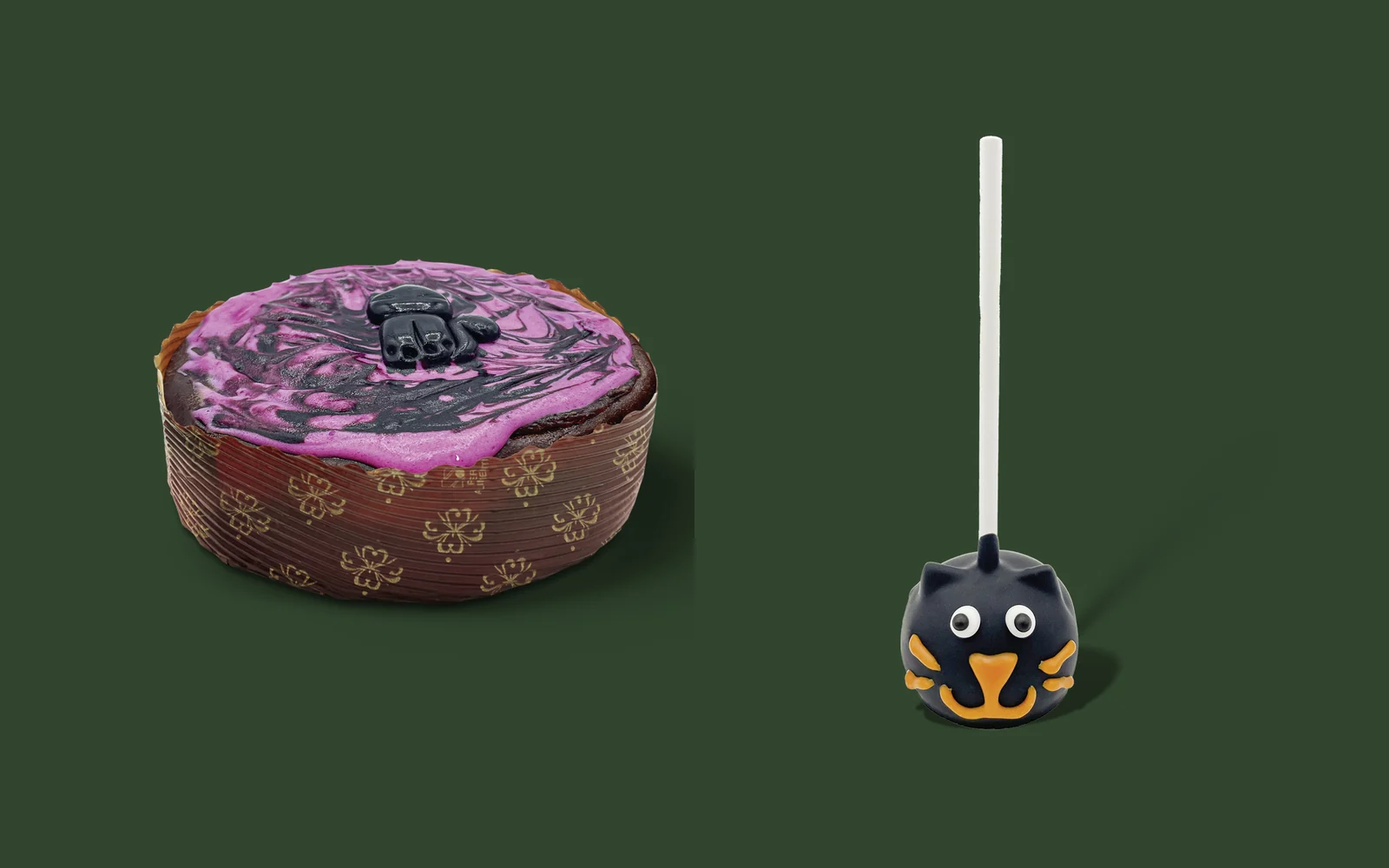
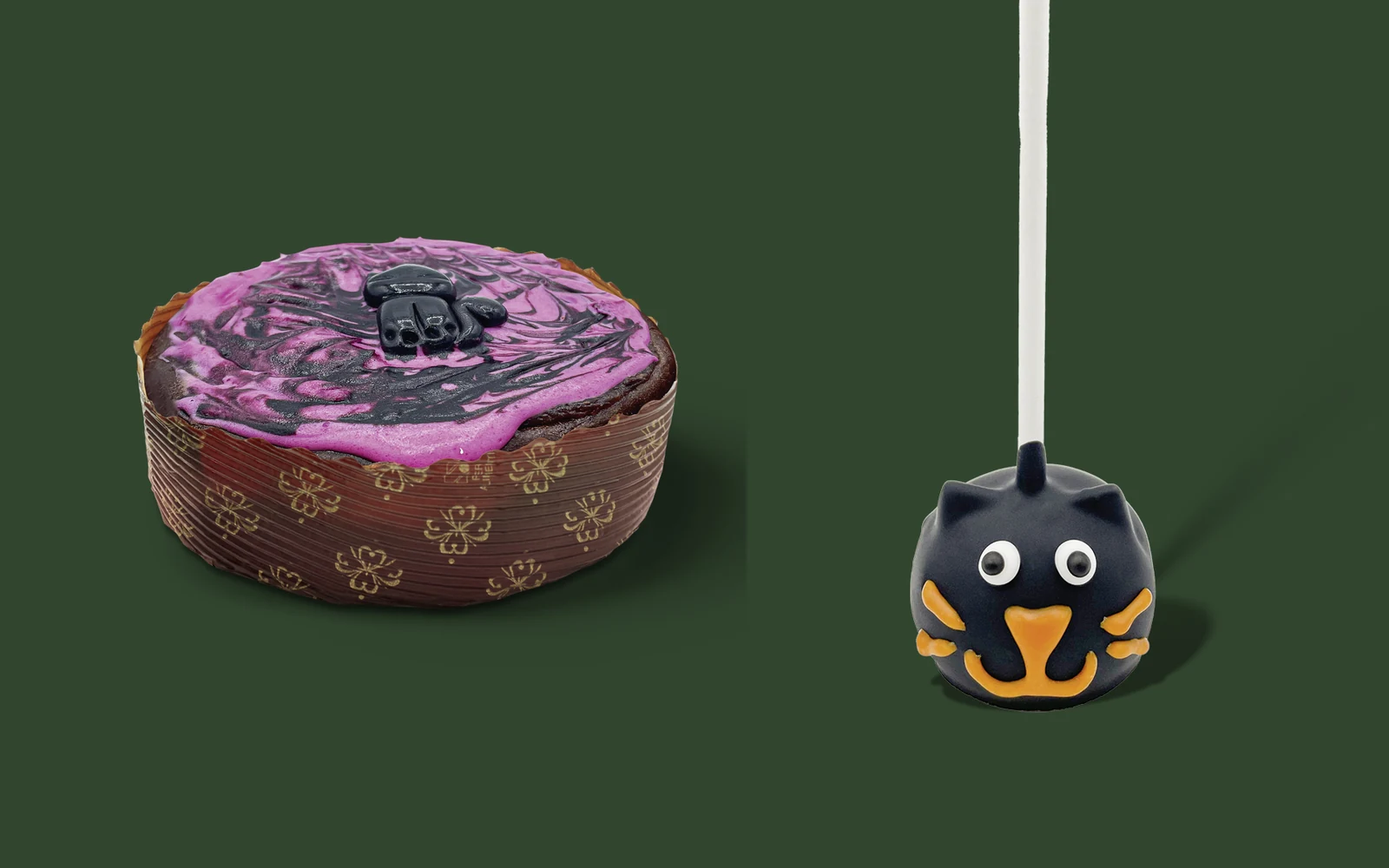
content(links,images): deepen internal linking and redo featured images for Halloween, Vanilla Latte, Stanley and Outlet
Internal linking
- 25 new inbound links from 21 existing pages (9-12 pages now link to each
  of the four posts, in line with earlier batches)
- cross-links between the four posts where they share a topic
  (Halloween <-> Stanley, Halloween <-> Outlet, Halloween -> Vanilla Latte)
- extra outbound links in the Stanley and Vanilla Latte posts

Featured images (text-free, same style as the rest of the blog)
- outlet: photo of Designer Outlet Soltau whose pylon shows the Starbucks
  sign (Hajotthu, CC BY 3.0, credit rendered on the page); the map graphic
  moves into the article as an inline figure
- vanilla-latte: official hot Vanilla Latte + Iced Caffe Latte on white
- halloween: recomposed, cake pop enlarged
- build_post.py renders markdown image lines as <figure class="inline-img">;
  add-image-credits.py knows CC BY 3.0

Changed region(s): [[0.0938, 0.248, 0.5312, 0.713], [0.625, 0.0, 0.875, 0.837]]

diff --git a/blog/starbucks-outlet.html b/blog/starbucks-outlet.html
@@ -155,7 +155,7 @@
           "name": "Gibt es ein Starbucks Outlet mit günstigeren Bechern?",
           "acceptedAnswer": {
             "@type": "Answer",
-            "text": "Nein, einen Fabrikverkauf oder ein eigenes Outlet für Becher betreibt Starbucks in Deutschland nicht. Die Filialen in Outlet-Centern führen das normale Sortiment zum normalen Preis. Limitierte Becher findest du über den Ratgeber Starbucks Becher aktuell."
+            "text": "Nein, einen Fabrikverkauf oder ein eigenes Outlet für Becher betreibt Starbucks in Deutschland nicht. Die Filialen in Outlet-Centern führen das normale Sortiment. Hinweise auf niedrigere Preise haben wir nicht gefunden. Limitierte Becher findest du über den Ratgeber Starbucks Becher aktuell."
           }
         },
         {
@@ -303,10 +303,10 @@
       <div class="article-heading">
         <span class="category-tag">Standorte &amp; Filialen</span>
         <h1 id="article-title">Starbucks im Outlet: Alle 10 Filialen in deutschen Outlet-Centern</h1>
-        <div class="article-meta"><span>7. Oktober 2026</span> • <span>10 Min. Lesezeit</span> • <span>StarbucksPreise Redaktion</span></div>
+        <div class="article-meta"><span>7. Oktober 2026</span> • <span>11 Min. Lesezeit</span> • <span>StarbucksPreise Redaktion</span></div>
       </div>
       <div class="featured-img">
-        <img src="/img/blog/starbucks-outlet-hero.webp" alt="Deutschlandkarte mit den zehn Outlet-Centern, in denen es eine Starbucks-Filiale gibt" loading="eager" fetchpriority="high" decoding="async" width="1600" height="1000">
+        <img src="/img/blog/starbucks-outlet-hero.webp" alt="Ladenstraße im Designer Outlet Soltau mit Werbepylon, auf dem Starbucks Coffee neben Nike und Esprit steht (Aufnahme von 2014)" loading="eager" fetchpriority="high" decoding="async" width="1600" height="1000"><p class="img-credit">Foto: Hajotthu, <a href="https://creativecommons.org/licenses/by/3.0/deed.de" rel="noopener">CC BY 3.0</a>, via <a href="https://commons.wikimedia.org/wiki/File:Outlet-Center_Soltau01.JPG" rel="noopener">Wikimedia Commons</a></p>
       </div>
     </header>
 
@@ -342,13 +342,14 @@
 
         <section class="article-section" aria-labelledby="gibt-es-ein-starbucks-outlet-in-deutschl">
           <h2 id="gibt-es-ein-starbucks-outlet-in-deutschl">1. Gibt es ein Starbucks Outlet in Deutschland?</h2>
-<p>Nein, einen Fabrikverkauf von Starbucks gibt es in Deutschland nicht. Starbucks betreibt hier weder ein eigenes Outlet für Merchandise noch einen Lagerverkauf für Kaffee. Die deutschen Coffee Houses führt AmRest, und Becher gibt es dort zum normalen Preis.</p>
+<p>Nein, einen Fabrikverkauf von Starbucks gibt es in Deutschland nicht. Starbucks betreibt hier weder ein eigenes Outlet für Merchandise noch einen Lagerverkauf für Kaffee. Die deutschen Coffee Houses führt AmRest. Becher und Tassen verkauft Starbucks hier nur über die Filialen, wie der Ratgeber <a href="/blog/starbucks-becher">Starbucks Becher</a> zeigt.</p>
 <p>Was es gibt, sind Coffee Houses in Outlet-Centern. Das Sortiment ist dasselbe wie in der Innenstadt: Getränke, Gebäck und das Kernsortiment an Bechern. Hinweise auf Outlet-Rabatte bei Starbucks haben wir nicht gefunden. Die Preise legt jede Filiale selbst fest, und Starbucks veröffentlicht sie nicht einheitlich.</p>
 <p>Wer sparen will, hat andere Hebel: die App, Starbucks Rewards und Aktionen im Supermarkt. Die sammelt der Ratgeber <a href="/blog/starbucks-angebote">Starbucks Angebote</a>. Reguläre Preise stehen in der <a href="/blog/starbucks-preise">Starbucks Preisliste</a>.</p>
         </section>
         <section class="article-section" aria-labelledby="in-welchen-outlet-centern-gibt-es-einen">
           <h2 id="in-welchen-outlet-centern-gibt-es-einen">2. In welchen Outlet-Centern gibt es einen Starbucks?</h2>
 <p>In zehn deutschen Outlet-Centern gibt es am 7. Oktober 2026 einen Starbucks. Drei liegen in Niedersachsen, zwei in Rheinland-Pfalz, je eines in Baden-Württemberg, Schleswig-Holstein, Brandenburg, Sachsen-Anhalt und Nordrhein-Westfalen.</p>
+<figure class="inline-img"><img src="/img/blog/starbucks-outlet-karte.webp" alt="Deutschlandkarte mit den zehn Outlet-Centern, in denen es eine Starbucks-Filiale gibt" width="1200" height="750" loading="lazy" decoding="async"><figcaption>Die zehn Outlet-Center mit Starbucks auf einen Blick (Stand 7. Oktober 2026). Grafik: StarbucksPreise.</figcaption></figure>
 <div class="table-wrap" tabindex="0" role="region" aria-labelledby="in-welchen-outlet-centern-gibt-es-einen">
 <table>
 <thead>
@@ -538,7 +539,7 @@
 </table>
 </div>
 <p>Quelle: Store Locator auf starbucks.de, Zeiten für den 7. bis 13. Oktober 2026.</p>
-<p>An verkaufsoffenen Sonntagen öffnen Outlet-Center ausnahmsweise. Ob der Starbucks dann mitmacht, zeigt der Store Locator für den jeweiligen Tag. Prüfe die Zeiten vor einer längeren Anfahrt. Wie du die Zeiten jeder Filiale findest, erklärt der Ratgeber <a href="/blog/starbucks-geoeffnet">Starbucks geöffnet</a>.</p>
+<p>An verkaufsoffenen Sonntagen öffnen Outlet-Center ausnahmsweise. Ob der Starbucks dann mitmacht, zeigt der Store Locator für den jeweiligen Tag. Prüfe die Zeiten vor einer längeren Anfahrt. Das gilt besonders am 31. Oktober 2026: Der Reformationstag ist in Niedersachsen, Schleswig-Holstein, Brandenburg und Sachsen-Anhalt Feiertag, und dort liegen sechs der zehn Outlet-Filialen. Mehr dazu im Ratgeber <a href="/blog/starbucks-halloween">Starbucks Halloween</a>. Wie du die Zeiten jeder Filiale findest, erklärt der Ratgeber <a href="/blog/starbucks-geoeffnet">Starbucks geöffnet</a>.</p>
         </section>
         <section class="article-section" aria-labelledby="welche-outlet-center-haben-keinen-starbu">
           <h2 id="welche-outlet-center-haben-keinen-starbu">7. Welche Outlet-Center haben keinen Starbucks?</h2>
@@ -621,7 +622,7 @@
           <div class="faq">
             <details>
               <summary><h3>Gibt es ein Starbucks Outlet mit günstigeren Bechern?</h3></summary>
-              <p>Nein, einen Fabrikverkauf oder ein eigenes Outlet für Becher betreibt Starbucks in Deutschland nicht. Die Filialen in Outlet-Centern führen das normale Sortiment zum normalen Preis. Limitierte Becher findest du über den Ratgeber <a href="/blog/starbucks-becher-aktuell">Starbucks Becher aktuell</a>.</p>
+              <p>Nein, einen Fabrikverkauf oder ein eigenes Outlet für Becher betreibt Starbucks in Deutschland nicht. Die Filialen in Outlet-Centern führen das normale Sortiment. Hinweise auf niedrigere Preise haben wir nicht gefunden. Limitierte Becher findest du über den Ratgeber <a href="/blog/starbucks-becher-aktuell">Starbucks Becher aktuell</a>.</p>
             </details>
             <details>
               <summary><h3>Wie viele Outlet-Center in Deutschland haben einen Starbucks?</h3></summary>

diff --git a/blog/starbucks-menu.html b/blog/starbucks-menu.html
@@ -623,7 +623,7 @@
           <h2 id="welche-getraenke-gibt-es-bei-starbucks">2. Welche Getränke gibt es bei Starbucks?</h2>
           <p>Getränke sind der Kern der Karte und machen den größten Teil der Suchanfragen aus. Starbucks trennt sie in heiße Kaffeegetränke, Kaltgetränke, Frappuccino®, Tee und Schokolade. Alle 61 Getränke der offiziellen Karte stehen in unserer <a href="/blog/starbucks-getraenke#getraenke-liste">Starbucks Getränke Liste</a>.</p>
           <h3>Heiße Kaffeegetränke: alle 14 Klassiker der Rubrik „Hot Coffees“</h3>
-          <p>Die Rubrik „Hot Coffees“ zeigt auf starbucks.de 14 Getränke: Filterkaffee, Caffè Misto (Filterkaffee mit aufgeschäumter Milch), <a href="/blog/starbucks-flat-white">Flat White</a>, <a href="/blog/starbucks-latte">Caffè Latte</a>, Latte Macchiato, Cappuccino, Vanilla Latte, Caramel Macchiato, <a href="/blog/starbucks-mocha">Caffè Mocha</a>, White Chocolate Mocha, Caffè Americano, Espresso, Espresso Macchiato und Espresso con Panna. Die Unterschiede liegen im Verhältnis von Espresso zu Milch: Ein Americano ist Espresso mit heißem Wasser, ein Cappuccino liegt unter dickem Milchschaum, ein Caramel Macchiato kombiniert Milch, Vanillesirup, Espresso und Karamellgitter.</p>
+          <p>Die Rubrik „Hot Coffees“ zeigt auf starbucks.de 14 Getränke: Filterkaffee, Caffè Misto (Filterkaffee mit aufgeschäumter Milch), <a href="/blog/starbucks-flat-white">Flat White</a>, <a href="/blog/starbucks-latte">Caffè Latte</a>, Latte Macchiato, Cappuccino, <a href="/blog/starbucks-vanilla-latte">Vanilla Latte</a>, Caramel Macchiato, <a href="/blog/starbucks-mocha">Caffè Mocha</a>, White Chocolate Mocha, Caffè Americano, Espresso, Espresso Macchiato und Espresso con Panna. Die Unterschiede liegen im Verhältnis von Espresso zu Milch: Ein Americano ist Espresso mit heißem Wasser, ein Cappuccino liegt unter dickem Milchschaum, ein Caramel Macchiato kombiniert Milch, Vanillesirup, Espresso und Karamellgitter.</p>
           <p>Preislich ist der Filterkaffee die günstigste Wahl, milchhaltige Signature-Getränke wie Mocha und Caramel Macchiato sind die teuersten. Genauere Röstungen und Bohnen erklärt unser Artikel <a href="/blog/starbucks-kaffee">Starbucks Kaffee</a>, den Aufbau des Latte Macchiato der Beitrag <a href="/blog/starbucks-latte-macchiato">Starbucks Latte Macchiato</a>, Preis und Herkunft des Flat White der Guide zu <a href="/blog/starbucks-flat-white">Starbucks Flat White</a>.</p>
           <h3>Kalte Getränke: Iced Coffee, Cold Brew, Refresha® und Eistee</h3>
           <p>Starbucks führt Kaltgetränke in mehreren eigenen Rubriken: Iced Coffees, Iced Chocolates, Refresha® und Iced Teas. <a href="/blog/starbucks-cold-brew">Cold Brew</a> ist ein über etwa 20 Stunden kalt extrahierter Kaffee, der säurearm und mild schmeckt. Refresha® sind fruchtige Getränke mit Fruchtsaft und Grünkaffee-Extrakt, zum Beispiel Strawberry Acai und Mango Dragonfruit, und schmecken nicht nach Kaffee.</p>
@@ -633,7 +633,7 @@
           <h3>Tee, Chai, Matcha und heiße Schokolade</h3>
           <p>Unter „Hot Teas“ laufen die Teavana-Tees, ergänzt um Chai Tea Latte und Matcha Green Tea Latte, unter „Hot Chocolates“ die Trinkschokoladen, darunter die <a href="/blog/starbucks-heisse-schokolade">Signature Hot Chocolate</a>. Alle 14 Teegetränke mit Koffein stehen im Ratgeber <a href="/blog/starbucks-tee">Starbucks Tee</a>, der Matcha im Ratgeber <a href="/blog/starbucks-matcha-latte">Starbucks Matcha Latte</a>. Tee ist die preiswerteste Alternative zum Kaffee: Ein heißer Teavana-Beuteltee beginnt laut unserer Preisliste bei 3,40 € (Tall), ein Chai Tea Latte liegt bei 4,40 € bis 5,40 €. Matcha-Getränke und Chai-Varianten kosten bei Drittlisten oft 6 € bis 8 €, weil sie mit aufgeschäumter Milch und Sirup zubereitet werden.</p>
           <h3>Saisonale Highlights: was auf der Karte wechselt</h3>
-          <p>Die Rubrik „Highlights“ zeigt zeitlich begrenzte Getränke, die mit der Jahreszeit wechseln. Im Herbst und Winter tauchen in den Preislisten 2026 zum Beispiel <a href="/blog/starbucks-pumpkin-spice-latte">Pumpkin Spice Latte</a>, Toffee Nut Latte und <a href="/blog/starbucks-weihnachten">Lebkuchen Latte</a> auf, im Sommer fruchtige Kaltgetränke und Frappuccino-Specials. Saisonale Getränke kosten laut Drittlisten meist etwa 6,20 € bis 7,50 € und damit mehr als ein Standard-Latte. Welche Highlights gerade laufen, siehst du am schnellsten in der App oder an der Wandtafel deiner Filiale.</p>
+          <p>Die Rubrik „Highlights“ zeigt zeitlich begrenzte Getränke, die mit der Jahreszeit wechseln. Im Herbst und Winter tauchen in den Preislisten 2026 zum Beispiel <a href="/blog/starbucks-pumpkin-spice-latte">Pumpkin Spice Latte</a>, Toffee Nut Latte und <a href="/blog/starbucks-weihnachten">Lebkuchen Latte</a> auf, im Sommer fruchtige Kaltgetränke und Frappuccino-Specials. Saisonale Getränke kosten laut Drittlisten meist etwa 6,20 € bis 7,50 € und damit mehr als ein Standard-Latte. Welche Highlights gerade laufen, siehst du am schnellsten in der App oder an der Wandtafel deiner Filiale. Was im Oktober dazukommt, steht im Ratgeber <a href="/blog/starbucks-halloween">Starbucks Halloween</a>.</p>
         </section>
 
         <section class="article-section" aria-labelledby="was-gibt-es-bei-starbucks-zu-essen">

diff --git a/blog/starbucks-stanley.html b/blog/starbucks-stanley.html
@@ -372,7 +372,7 @@
 </table>
 </div>
 <p>Quellen: jeweils abgerufen am 7. Oktober 2026.</p>
-<p>Der Grund liegt in der Struktur. Die Kooperation wird über Starbucks in den USA und über einzelne Märkte in Asien vermarktet. Die deutschen Coffee Houses betreibt AmRest. Das Sortiment hierzulande folgt der europäischen Kollektion, und die führt bisher keine Stanley-Becher.</p>
+<p>Der Grund liegt in der Struktur. Die Kooperation wird über Starbucks in den USA und über einzelne Märkte in Asien vermarktet. Die deutschen Coffee Houses betreibt AmRest. Mehr zum Betreiber steht im Ratgeber <a href="/blog/starbucks-deutschland-filialen">Starbucks Deutschland Filialen</a>. Das Sortiment hierzulande folgt der europäischen Kollektion, und die führt bisher keine Stanley-Becher.</p>
 <p>Das kann sich ändern. Eine Zusage oder ein Datum gibt es aber nicht. Wenn ein Händler „Starbucks Stanley Deutschland“ verspricht, handelt es sich um Importware oder Wiederverkauf.</p>
         </section>
         <section class="article-section" aria-labelledby="welche-starbucks-x-stanley-becher-gab-es">
@@ -532,19 +532,19 @@
 </table>
 </div>
 <p>Quellen: starbucksfreiburg.de (abgerufen am 7. Oktober 2026), about.starbucks.com (Preis vom 7. November 2024).</p>
-<p>Der Tumbler Luxor Black kommt dem Stanley technisch am nächsten. Starbucks beschreibt ihn als doppelwandigen Edelstahl-Becher mit Vakuumkonstruktion. Er fasst 473 ml und damit genau ein Getränk in Grande.</p>
+<p>Der Tumbler Luxor Black kommt dem Stanley technisch am nächsten. Starbucks beschreibt ihn als doppelwandigen Edelstahl-Becher mit Vakuumkonstruktion. Er fasst 473 ml und damit genau ein Getränk in Grande. Preise für Getränke stehen in der <a href="/blog/starbucks-preise">Starbucks Preisliste</a>.</p>
 <p>Wer vor allem die Größe will, kauft den Quencher ohne Starbucks-Logo direkt bei Stanley. Alle Becher-Typen und ihre Pflege erklärt der Ratgeber <a href="/blog/starbucks-becher">Starbucks Becher</a>. Was gerade neu im Regal steht, zeigt <a href="/blog/starbucks-becher-aktuell">Starbucks Becher aktuell</a>.</p>
         </section>
         <section class="article-section" aria-labelledby="kannst-du-einen-stanley-cup-bei-starbuck">
           <h2 id="kannst-du-einen-stanley-cup-bei-starbuck">8. Kannst du einen Stanley Cup bei Starbucks befüllen lassen?</h2>
 <p>Ja, einen sauberen eigenen Becher darfst du bei Starbucks mitbringen. In einen Quencher mit 1,18 Litern passt jedes Getränk der Karte. Der größte Becher für Kaltgetränke, der Venti, fasst 709 ml.</p>
-<p>Die Bestellkarte auf starbucks.de berechnet für den Einwegbecher 0,05 € extra. Als Alternative bietet sie einen Mehrwegbecher mit 2,50 € Pfand an. Mit eigenem Becher brauchst du keinen von beiden. Wie der Rabatt für Mehrweg genau geregelt ist, steht im Ratgeber <a href="/blog/starbucks-becher">Starbucks Becher</a>.</p>
+<p>Die Bestellkarte auf starbucks.de berechnet für den Einwegbecher 0,05 € extra. Als Alternative bietet sie einen Mehrwegbecher mit 2,50 € Pfand an. Die vier Bechertypen vergleicht der Ratgeber <a href="/blog/kaffeebecher-von-starbucks">Kaffeebecher von Starbucks</a>. Mit eigenem Becher brauchst du keinen von beiden. Wie der Rabatt für Mehrweg genau geregelt ist, steht im Ratgeber <a href="/blog/starbucks-becher">Starbucks Becher</a>.</p>
 <p>Ein praktischer Hinweis: Der Barista bereitet das Getränk in der bestellten Größe zu. Ein Grande füllt einen Quencher nicht einmal zur Hälfte. Welche Größe wie viel fasst, zeigt die Übersicht <a href="/blog/starbucks-groessen-tall-grande-venti">Tall, Grande, Venti</a>.</p>
         </section>
         <section class="article-section" aria-labelledby="kommt-der-starbucks-stanley-2026-nach-eu">
           <h2 id="kommt-der-starbucks-stanley-2026-nach-eu">9. Kommt der Starbucks Stanley 2026 nach Europa?</h2>
 <p>Angekündigt ist nichts. Starbucks hat am 5. Oktober 2026 eine erste Vorschau auf die Holiday-Kollektion für die USA veröffentlicht. Sie beginnt dort am 5. November. Ein Stanley-Becher wird in der Vorschau nicht genannt.</p>
-<p>Die Vorschau ist nicht vollständig, Starbucks spricht von einem ersten Blick. Für Europa bleibt die Herbstkollektion 2026 der letzte Stand, und die kommt ohne Stanley aus. Sobald es eine offizielle Ankündigung gibt, aktualisieren wir diesen Artikel. Was zu Weihnachten sicher kommt, steht im Ratgeber <a href="/blog/starbucks-weihnachten">Starbucks Weihnachten</a>.</p>
+<p>Die Vorschau ist nicht vollständig, Starbucks spricht von einem ersten Blick. Für Europa bleibt die Herbstkollektion 2026 der letzte Stand, und die kommt ohne Stanley aus. Was sie stattdessen enthält, zeigt der Ratgeber <a href="/blog/starbucks-halloween">Starbucks Halloween</a>. Sobald es eine offizielle Ankündigung gibt, aktualisieren wir diesen Artikel. Was zu Weihnachten sicher kommt, steht im Ratgeber <a href="/blog/starbucks-weihnachten">Starbucks Weihnachten</a>.</p>
         </section>
 
         <section class="article-section" aria-labelledby="faq">

diff --git a/blog/starbucks-halloween.html b/blog/starbucks-halloween.html
@@ -296,7 +296,7 @@
         <div class="article-meta"><span>7. Oktober 2026</span> • <span>11 Min. Lesezeit</span> • <span>StarbucksPreise Redaktion</span></div>
       </div>
       <div class="featured-img">
-        <img src="/img/blog/starbucks-halloween-hero.webp" alt="Mystery Black Cat Swirl mit lila Frosting und Cake Pop Mystery Black Cat von Starbucks vor dunkelgrünem Hintergrund" loading="eager" fetchpriority="high" decoding="async" width="1600" height="1000">
+        <img src="/img/blog/starbucks-halloween-hero.webp" alt="Mystery Black Cat Swirl mit lila Frosting und Cake Pop Mystery Black Cat als schwarze Katze von Starbucks vor dunkelgrünem Hintergrund" loading="eager" fetchpriority="high" decoding="async" width="1600" height="1000">
       </div>
     </header>
 
@@ -489,7 +489,7 @@
 <li><strong>Black cat stainless steel cold cup:</strong> mattschwarzer Edelstahl-Becher, das Katzen-Motiv leuchtet im Dunkeln, 29,95 US-Dollar</li>
 <li><strong>Black Cat Bearista Plush Bag Charm:</strong> Bearista-Bär im Katzenkostüm als Taschenanhänger, 14,95 US-Dollar</li>
 </ul>
-<p>Starbucks nennt als Verkaufsort ausgewählte Coffee Houses, solange der Vorrat reicht. Einen Verkauf in Europa kündigt die Mitteilung nicht an. Wer den leuchtenden Becher will, findet ihn hierzulande nur im Wiederverkauf.</p>
+<p>Starbucks nennt als Verkaufsort ausgewählte Coffee Houses, solange der Vorrat reicht. Einen Verkauf in Europa kündigt die Mitteilung nicht an. Wer den leuchtenden Becher will, findet ihn hierzulande nur im Wiederverkauf. Dasselbe gilt für den Stanley-Becher mit Starbucks-Logo, siehe <a href="/blog/starbucks-stanley">Starbucks Stanley</a>.</p>
 <h3 id="peanuts-und-snoopy-der-zweite-herbst-dro">Peanuts und Snoopy: der zweite Herbst-Drop</h3>
 <p>Parallel läuft die Kollektion „Peanuts x Starbucks“. Sie startete am 15. September 2026 weltweit in teilnehmenden Coffee Houses. Anlass ist der 60. Geburtstag des Halloween-Specials „It's the Great Pumpkin, Charlie Brown“. Die Details stehen im Ratgeber <a href="/blog/starbucks-becher-aktuell">Starbucks Becher aktuell</a>.</p>
         </section>
@@ -534,7 +534,7 @@
 </table>
 </div>
 <p>Quelle: starbucks.de (Saisonkarte) und starbucksfreiburg.de, abgerufen am 7. Oktober 2026. Die Bestellseite nennt keine Größe zum Preis.</p>
-<p>Am nächsten an ein Halloween-Getränk kommt der Pumpkin Spice Frappuccino: orange, mit Sahne und Kürbis-Topping. Wer weniger Zucker will, nimmt den Pumpkin Spice Latte in Tall. Alles zum Klassiker steht im Ratgeber <a href="/blog/starbucks-pumpkin-spice-latte">Starbucks Pumpkin Spice Latte</a>, alle Sorten im Überblick <a href="/blog/starbucks-frappuccino-sorten">Frappuccino-Sorten</a>.</p>
+<p>Am nächsten an ein Halloween-Getränk kommt der Pumpkin Spice Frappuccino: orange, mit Sahne und Kürbis-Topping. Wer weniger Zucker will, nimmt den Pumpkin Spice Latte in Tall. Ganz ohne Kürbis geht es mit einem <a href="/blog/starbucks-vanilla-latte">Vanilla Latte</a>. Alles zum Klassiker steht im Ratgeber <a href="/blog/starbucks-pumpkin-spice-latte">Starbucks Pumpkin Spice Latte</a>, alle Sorten im Überblick <a href="/blog/starbucks-frappuccino-sorten">Frappuccino-Sorten</a>.</p>
         </section>
         <section class="article-section" aria-labelledby="kommt-der-black-cat-frappuccino-nach-deu">
           <h2 id="kommt-der-black-cat-frappuccino-nach-deu">5. Kommt der Black Cat Frappuccino nach Deutschland?</h2>
@@ -601,7 +601,7 @@
         <section class="article-section" aria-labelledby="hat-starbucks-an-halloween-geoeffnet">
           <h2 id="hat-starbucks-an-halloween-geoeffnet">8. Hat Starbucks an Halloween geöffnet?</h2>
 <p>Ja. Halloween fällt 2026 auf Samstag, den 31. Oktober. Halloween selbst ist kein Feiertag. In neun Bundesländern ist der 31. Oktober aber als Reformationstag gesetzlicher Feiertag.</p>
-<p>Das sind Brandenburg, Bremen, Hamburg, Mecklenburg-Vorpommern, Niedersachsen, Sachsen, Sachsen-Anhalt, Schleswig-Holstein und Thüringen. Dort gelten in vielen Filialen Feiertagszeiten. Coffee Houses in Einkaufszentren können ganz geschlossen bleiben, wenn das Center zu hat.</p>
+<p>Das sind Brandenburg, Bremen, Hamburg, Mecklenburg-Vorpommern, Niedersachsen, Sachsen, Sachsen-Anhalt, Schleswig-Holstein und Thüringen. Dort gelten in vielen Filialen Feiertagszeiten. Coffee Houses in Einkaufszentren können ganz geschlossen bleiben, wenn das Center zu hat. In diesen Ländern liegen auch sechs der zehn <a href="/blog/starbucks-outlet">Starbucks in Outlet-Centern</a>.</p>
 <p>Der 1. November 2026 ist ein Sonntag. Allerheiligen ändert deshalb in Bayern, Baden-Württemberg, Nordrhein-Westfalen, Rheinland-Pfalz und im Saarland kaum etwas an den Zeiten. Die genauen Zeiten deiner Filiale zeigt der Store Locator auf starbucks.de. Mehr dazu steht im Ratgeber <a href="/blog/starbucks-geoeffnet">Starbucks geöffnet</a>.</p>
         </section>
         <section class="article-section" aria-labelledby="so-bekommst-du-einen-halloween-becher">

diff --git a/blog/starbucks-weihnachten.html b/blog/starbucks-weihnachten.html
@@ -312,7 +312,7 @@
 
         <section class="article-section" aria-labelledby="wann-startet-starbucks-weihnachten-2026">
           <h2 id="wann-startet-starbucks-weihnachten-2026">1. Wann startet Starbucks Weihnachten 2026?</h2>
-<p>Starbucks Deutschland stellt die Herbstkarte in der Regel Anfang November auf die Holiday Season um. 2024 erschien der Artikel „Your Holiday Faves are back“ auf starbucks.de am 4. November. 2025 begann die Holiday-Karte in Europa am 6. November. Ein offizielles Datum für 2026 gibt es noch nicht.</p>
+<p>Starbucks Deutschland stellt die Herbstkarte in der Regel Anfang November auf die Holiday Season um. Bis dahin läuft die Halloween-Saison mit Katzen-Gebäck und Herbstbechern, siehe <a href="/blog/starbucks-halloween">Starbucks Halloween</a>. 2024 erschien der Artikel „Your Holiday Faves are back“ auf starbucks.de am 4. November. 2025 begann die Holiday-Karte in Europa am 6. November. Ein offizielles Datum für 2026 gibt es noch nicht.</p>
 <p>Bis dahin laufen die Herbstgetränke weiter. Der <a href="/blog/starbucks-pumpkin-spice-latte">Pumpkin Spice Latte</a> steht im Oktober 2026 noch auf der Karte und verschwindet meist mit dem Start der Weihnachtsgetränke. Wer den Starttag nicht verpassen will, schaut in die <a href="/blog/starbucks-app">Starbucks App</a>: Dort tauchen neue Saisongetränke oft zuerst auf.</p>
 <h3 id="wie-lange-gibt-es-die-weihnachtsgetraenk">Wie lange gibt es die Weihnachtsgetränke?</h3>
 <p>Die Weihnachtsgetränke laufen bis Ende Dezember und oft noch einige Tage ins neue Jahr. Danach übernimmt die Winterkarte. Anfang 2026 war das die Pistazien-Karte mit Pistachio Velvet Latte und Pistachio Hot Chocolate. Toffee Nut und Lebkuchen standen in der Winter-Nährwertliste nicht mehr drin. Restbestände an <a href="/blog/starbucks-sirup">Sirup</a> können in einzelnen Filialen etwas länger reichen.</p>
@@ -475,7 +475,7 @@
         </section>
         <section class="article-section" aria-labelledby="gibt-es-bei-starbucks-weihnachtsbecher">
           <h2 id="gibt-es-bei-starbucks-weihnachtsbecher">5. Gibt es bei Starbucks Weihnachtsbecher?</h2>
-<p>Ja. Zur Holiday Season serviert Starbucks die heißen Getränke in Bechern im Weihnachtsdesign. 2025 zeigten sie in Österreich das Starbucks-Logo, umgeben von roten Schleifen. Dazu kommen jedes Jahr Weihnachts-Tumbler, Cold Cups, Tassen und wiederverwendbare Becher als Merchandise.</p>
+<p>Ja. Zur Holiday Season serviert Starbucks die heißen Getränke in Bechern im Weihnachtsdesign. 2025 zeigten sie in Österreich das Starbucks-Logo, umgeben von roten Schleifen. Dazu kommen jedes Jahr Weihnachts-Tumbler, Cold Cups, Tassen und wiederverwendbare Becher als Merchandise. In den USA gehörte 2024 auch ein Stanley Quencher zur Holiday-Kollektion, in Deutschland nicht: <a href="/blog/starbucks-stanley">Starbucks Stanley</a>.</p>
 <p>Einen kostenlosen „Red Cup Day“ gibt es in Deutschland nicht. Diese Aktion läuft in den USA: Dort bekamen Gäste am 13. November 2025 zu einem Holiday-Getränk einen wiederverwendbaren roten Becher gratis. In Deutschland gab es 2018 erstmals einen roten Mehrwegbecher für 2,50 €, der bis zu 30-mal benutzt werden kann. Aktuelle Weihnachts-Kollektionen stellen wir in <a href="/blog/starbucks-becher-aktuell">Starbucks Becher aktuell</a> vor.</p>
         </section>
         <section class="article-section" aria-labelledby="christmas-blend-und-weihnachtskaffee-fue">

diff --git a/blog/starbucks-vanilla-latte.html b/blog/starbucks-vanilla-latte.html
@@ -325,7 +325,7 @@
         <div class="article-meta"><span>7. Oktober 2026</span> • <span>11 Min. Lesezeit</span> • <span>StarbucksPreise Redaktion</span></div>
       </div>
       <div class="featured-img">
-        <img src="/img/blog/starbucks-vanilla-latte-hero.webp" alt="Starbucks Vanilla Latte im Glasbecher mit Milchschaum und Latte-Art-Herz vor weißem Hintergrund" loading="eager" fetchpriority="high" decoding="async" width="1600" height="1000">
+        <img src="/img/blog/starbucks-vanilla-latte-hero.webp" alt="Starbucks Vanilla Latte im Glasbecher mit Latte-Art-Herz und Iced Latte im Glas vor weißem Hintergrund" loading="eager" fetchpriority="high" decoding="async" width="1600" height="1000">
       </div>
     </header>
 
@@ -364,7 +364,7 @@
           <h2 id="was-ist-ein-vanilla-latte-bei-starbucks">1. Was ist ein Vanilla Latte bei Starbucks?</h2>
 <p>Ein Vanilla Latte ist bei Starbucks ein Caffè Latte, der mit Vanillesirup gesüßt wird. Starbucks Deutschland beschreibt ihn so: Der Espresso wird mit gedämpfter Milch und einer leichten Schaumschicht gemischt und mit Vanillesirup verfeinert.</p>
 <p>Die Basis ist der Caffè Latte. Er besteht aus Espresso, aufgeschäumter Milch und einer zarten Schicht Milchschaum. Dazu kommt nur der Sirup. Topping oder Sahne gehören nicht zum Rezept.</p>
-<p>Ohne Sirup ist der Caffè Latte eines der kalorienärmeren Milchgetränke auf der Karte. Erst die Vanille macht ihn süß. Alle Verwandten, vom Latte Macchiato bis zum Flat White, stellt der Ratgeber <a href="/blog/starbucks-latte">Starbucks Latte</a> vor.</p>
+<p>Ohne Sirup ist der Caffè Latte eines der kalorienärmeren Milchgetränke auf der Karte. Erst die Vanille macht ihn süß. Saisonale Sorten wie der <a href="/blog/starbucks-pumpkin-spice-latte">Pumpkin Spice Latte</a> folgen demselben Prinzip: Caffè Latte plus Aroma. Alle Verwandten, vom Latte Macchiato bis zum Flat White, stellt der Ratgeber <a href="/blog/starbucks-latte">Starbucks Latte</a> vor.</p>
         </section>
         <section class="article-section" aria-labelledby="steht-der-vanilla-latte-in-deutschland-a">
           <h2 id="steht-der-vanilla-latte-in-deutschland-a">2. Steht der Vanilla Latte in Deutschland auf der Karte?</h2>
@@ -403,7 +403,7 @@
 </table>
 </div>
 <p>Quelle: starbucks.de und starbucksfreiburg.de, abgerufen am 7. Oktober 2026.</p>
-<p>Die Bestellkarte listet 28 heiße Getränke. Das einzige mit Vanille im Namen ist der Soy Protein Vanilla Latte mit zuckerfreiem Sirup. Den klassischen Vanilla Latte baust du dir aus dem Caffè Latte selbst. An der Theke reicht es, „Vanilla Latte“ zu sagen.</p>
+<p>Die Bestellkarte listet 28 heiße Getränke. Das einzige mit Vanille im Namen ist der Soy Protein Vanilla Latte mit zuckerfreiem Sirup. Den klassischen Vanilla Latte baust du dir aus dem Caffè Latte selbst. An der Theke reicht es, „Vanilla Latte“ zu sagen. Die ganze Karte zeigt der Überblick <a href="/blog/starbucks-getraenke">Starbucks Getränke</a>.</p>
         </section>
         <section class="article-section" aria-labelledby="wie-bestellst-du-einen-vanilla-latte">
           <h2 id="wie-bestellst-du-einen-vanilla-latte">3. Wie bestellst du einen Vanilla Latte?</h2>

diff --git a/blog/starbucks-iced-coffee.html b/blog/starbucks-iced-coffee.html
@@ -179,7 +179,7 @@
           <p>Nein – ein direkter Blick auf die aktuelle Getränkekarte von starbucks.de zeigt, dass die Kategorie „Iced Coffees“ in Deutschland aus Cold Brew, Cold Brew Latte, Iced Latte Macchiato, <a href="/blog/starbucks-cappuccino">Iced Cappuccino</a>, Iced Latte, <a href="/iced-caramel-macchiato">Iced Caramel Macchiato</a>, Iced White Mocha, Iced Mocha und Iced Americano besteht – ein eigenständiges Getränk namens „Iced Coffee“ fehlt. In den USA dagegen ist Iced Coffee ein fester Menüpunkt: heiß gebrühter Kaffee, der über Eis gekühlt und unversüßt serviert wird, mit Noten von Malzschokolade und brauner Zuckersüße. Die vollständige deutsche Getränkekarte mit allen Kategorien steht in der <a href="/blog/starbucks-menu">Starbucks Menu Übersicht</a>.</p>
           <p>Der Grund ist keine Geheimniskrämerei, sondern schlicht ein anderer Getränkezuschnitt je Landesmarkt: Deutsche Filialen bilden dieselbe Grundidee – Kaffee kalt und ohne Zuckerzusatz – über zwei andere, technisch definierte Getränke ab, statt eine dritte Variante zusätzlich zu führen.</p>
           <h3>Die nächstliegenden Alternativen: Iced Americano und Cold Brew</h3>
-          <p>Wer den US-Geschmack von Iced Coffee sucht, bestellt in Deutschland am ehesten einen <strong>Iced Americano</strong>: Espresso wird mit gefiltertem Wasser gestreckt und über Eiswürfel gegossen, wodurch ein leichter, klarer Kaffeegeschmack mit erhaltener Crema entsteht – geschmacklich am nächsten am US-Original. Etwas voller im Körper ist der <strong>Cold Brew</strong>: grob gemahlener Kaffee wird 20 Stunden lang in kaltem Wasser extrahiert, wodurch spürbar weniger Bitterstoffe und Säuren gelöst werden und ein von Natur aus süßerer, schokoladiger Geschmack entsteht – ohne jede Erhitzung. Für eine Zwischenstufe mit Milch bietet sich der <a href="/blog/starbucks-latte">Iced Caffè Latte</a> an, der Espresso, kalte Milch und Eis kombiniert.</p>
+          <p>Wer den US-Geschmack von Iced Coffee sucht, bestellt in Deutschland am ehesten einen <strong>Iced Americano</strong>: Espresso wird mit gefiltertem Wasser gestreckt und über Eiswürfel gegossen, wodurch ein leichter, klarer Kaffeegeschmack mit erhaltener Crema entsteht – geschmacklich am nächsten am US-Original. Etwas voller im Körper ist der <strong>Cold Brew</strong>: grob gemahlener Kaffee wird 20 Stunden lang in kaltem Wasser extrahiert, wodurch spürbar weniger Bitterstoffe und Säuren gelöst werden und ein von Natur aus süßerer, schokoladiger Geschmack entsteht – ohne jede Erhitzung. Für eine Zwischenstufe mit Milch bietet sich der <a href="/blog/starbucks-latte">Iced Caffè Latte</a> an, der Espresso, kalte Milch und Eis kombiniert. Mit Vanilla Sirup wird daraus der Iced Vanilla Latte, siehe <a href="/blog/starbucks-vanilla-latte">Starbucks Vanilla Latte</a>.</p>
         </section>
 
         <section class="article-section" aria-labelledby="doubleshot">

diff --git a/blog/index.html b/blog/index.html
@@ -72,7 +72,7 @@
   <section class="sec" id="blog-list">
     <div class="blog-grid">
         <article class="blog-card">
-          <div class="blog-card-img"><img src="/img/blog/starbucks-halloween-hero.webp" alt="Mystery Black Cat Swirl mit lila Frosting und Cake Pop Mystery Black Cat von Starbucks vor dunkelgrünem Hintergrund" loading="lazy"></div>
+          <div class="blog-card-img"><img src="/img/blog/starbucks-halloween-hero.webp" alt="Mystery Black Cat Swirl mit lila Frosting und Cake Pop Mystery Black Cat als schwarze Katze von Starbucks vor dunkelgrünem Hintergrund" loading="lazy"></div>
           <div class="blog-card-body">
             <span class="blog-card-badge">Saison &amp; Specials</span>
             <h3><a href="/blog/starbucks-halloween">Starbucks Halloween 2026: Becher, Getränke und Gebäck in Deutschland</a></h3>
@@ -82,7 +82,7 @@
         </article>
 
         <article class="blog-card">
-          <div class="blog-card-img"><img src="/img/blog/starbucks-vanilla-latte-hero.webp" alt="Starbucks Vanilla Latte im Glasbecher mit Milchschaum und Latte-Art-Herz vor weißem Hintergrund" loading="lazy"></div>
+          <div class="blog-card-img"><img src="/img/blog/starbucks-vanilla-latte-hero.webp" alt="Starbucks Vanilla Latte im Glasbecher mit Latte-Art-Herz und Iced Latte im Glas vor weißem Hintergrund" loading="lazy"></div>
           <div class="blog-card-body">
             <span class="blog-card-badge">Getränke im Detail</span>
             <h3><a href="/blog/starbucks-vanilla-latte">Starbucks Vanilla Latte: Preis, Kalorien und so bestellst du ihn</a></h3>
@@ -102,12 +102,12 @@
         </article>
 
         <article class="blog-card">
-          <div class="blog-card-img"><img src="/img/blog/starbucks-outlet-hero.webp" alt="Deutschlandkarte mit den zehn Outlet-Centern, in denen es eine Starbucks-Filiale gibt" loading="lazy"></div>
+          <div class="blog-card-img"><img src="/img/blog/starbucks-outlet-hero.webp" alt="Ladenstraße im Designer Outlet Soltau mit Werbepylon, auf dem Starbucks Coffee neben Nike und Esprit steht (Aufnahme von 2014)" loading="lazy"></div>
           <div class="blog-card-body">
             <span class="blog-card-badge">Standorte &amp; Filialen</span>
             <h3><a href="/blog/starbucks-outlet">Starbucks im Outlet: Alle 10 Filialen in deutschen Outlet-Centern</a></h3>
             <p>Zehn deutsche Outlet-Center haben einen Starbucks: alle Adressen und Öffnungszeiten von Metzingen bis Neumünster, plus die Center ohne Coffee House.</p>
-            <div class="blog-card-meta"><span>7. Oktober 2026</span> &bull; <span>10 Min. Lesezeit</span></div>
+            <div class="blog-card-meta"><span>7. Oktober 2026</span> &bull; <span>11 Min. Lesezeit</span></div>
           </div>
         </article>
 

diff --git a/blog/starbucks-tassen.html b/blog/starbucks-tassen.html
@@ -321,7 +321,7 @@
     
 
     
-      <p>Die Kaffeetassen der weltbekannten Kaffeekette haben weltweit einen beispiellosen Kultstatus erlangt. Für Millionen von Reisenden und Kaffeeliebhabern gehört der Kauf einer lokalen City Mug in jeder besuchten Metropole zum festen Ritual. Was einst als einfaches Souvenir begann, hat sich zu einem weltweiten Sammlermarkt mit eigenen Katalogen, Tauschbörsen und beachtlichen Wertsteigerungen entwickelt.</p>
+      <p>Die Kaffeetassen der weltbekannten Kaffeekette haben weltweit einen beispiellosen Kultstatus erlangt. Für Millionen von Reisenden und Kaffeeliebhabern gehört der Kauf einer lokalen City Mug in jeder besuchten Metropole zum festen Ritual. Was einst als einfaches Souvenir begann, hat sich zu einem weltweiten Sammlermarkt mit eigenen Katalogen, Tauschbörsen und beachtlichen Wertsteigerungen entwickelt. Zu den gefragtesten Sammlerstücken der letzten Jahre zählt der <a href="/blog/starbucks-stanley">Starbucks Stanley Cup</a>, den es in Deutschland nicht gibt.</p>
 
       <section class="article-section" aria-labelledby="serien"><h2 id="serien">1. Welche Starbucks Tassen-Serien gibt es?</h2>
       <p>Das Sortiment an Starbucks Tassen wird durch aufeinanderfolgende Generationen von Designlinien geprägt, die jeweils über mehrere Jahre hinweg die Regale der weltweiten Stores dominierten. Jede Serie besitzt eine unverwechselbare visuelle Sprache und spezifische Merkmale.</p>
@@ -443,7 +443,7 @@
 
       </section><section class="article-section" aria-labelledby="staedtetassen">
 <h2 id="staedtetassen">Welche Starbucks Städtetassen gibt es in Deutschland?</h2>
-<p>In Deutschland verkauft Starbucks seine Städtetassen als <strong>You Are Here Series</strong>, nicht als Been There Series. Der Sammlerkatalog starbucks-mugs.com führt rund 20 deutsche You-Are-Here-Motive, von Berlin und Hamburg über Wolfsburg und Metzingen bis zu einer Oktoberfest- und einer Deutschland-Tasse.</p>
+<p>In Deutschland verkauft Starbucks seine Städtetassen als <strong>You Are Here Series</strong>, nicht als Been There Series. Der Sammlerkatalog starbucks-mugs.com führt rund 20 deutsche You-Are-Here-Motive, von Berlin und Hamburg über Wolfsburg und Metzingen bis zu einer Oktoberfest- und einer Deutschland-Tasse. Wolfsburg und Metzingen sind Outlet-Standorte, alle zehn stehen im Ratgeber <a href="/blog/starbucks-outlet">Starbucks im Outlet</a>.</p>
 <div class="table-wrap" tabindex="0" role="region" aria-labelledby="staedtetassen">
   <table>
     <thead>

diff --git a/blog/starbucks-kalorien-guide.html b/blog/starbucks-kalorien-guide.html
@@ -301,7 +301,7 @@
 <p>Die verbindlichen Nährwerte stehen auf starbucks.de unter „Nutrition“ als drei PDFs: Getränke-Nährwerte, Getränke-Allergene sowie Food-Nährwerte und -Allergene. Die aktuelle Ausgabe heißt „Autumn“ und gilt seit dem 10. September 2026. Starbucks aktualisiert die Listen mit jedem Saisonwechsel, zuletzt im Februar 2026 (Spring).</p>
 <p>Die Getränkeliste nennt pro Größe und Milchsorte zehn Werte: Kilojoule, Kalorien, Fett, gesättigte Fettsäuren, Kohlenhydrate, Zucker, Ballaststoffe, Eiweiß, Salz und Koffein. Laut Starbucks sind die Daten mit der Software ESHA R&amp;D SQL® auf Basis der Standardrezepte berechnet. Handgemachte Getränke können deshalb leicht abweichen. Für Gebäck und Sandwiches gibt es die Werte pro 100 g und pro Stück.</p>
 <h3>Was hat sich in der Autumn-Liste 2026 geändert?</h3>
-<p>Die auffälligste Änderung betrifft die Espresso-Menge. In der Spring-Liste vom Februar 2026 hatte ein Tall Caffè Latte einen Shot (44,5 mg Koffein) und ein Venti zwei (89,1 mg). In der Autumn-Liste sind es beim Tall zwei Shots (89,1 mg) und beim Venti drei (133,6 mg). Der Tall Latte ist damit doppelt so stark und trotzdem etwas leichter als vorher (124 statt 129 kcal). Neu in der Liste sind unter anderem die Pumpkin-Spice-Getränke, der Pecan Maple Macchiato und zwei <a href="/blog/starbucks-protein">Soy Protein Lattes</a> mit zuckerfreiem Vanillesirup.</p>
+<p>Die auffälligste Änderung betrifft die Espresso-Menge. In der Spring-Liste vom Februar 2026 hatte ein Tall Caffè Latte einen Shot (44,5 mg Koffein) und ein Venti zwei (89,1 mg). In der Autumn-Liste sind es beim Tall zwei Shots (89,1 mg) und beim Venti drei (133,6 mg). Der Tall Latte ist damit doppelt so stark und trotzdem etwas leichter als vorher (124 statt 129 kcal). Neu in der Liste sind unter anderem die Pumpkin-Spice-Getränke, der Pecan Maple Macchiato und zwei <a href="/blog/starbucks-protein">Soy Protein Lattes</a> mit zuckerfreiem Vanillesirup. Wie viele Kalorien der klassische Vanilla Latte hat, rechnet der Ratgeber <a href="/blog/starbucks-vanilla-latte">Starbucks Vanilla Latte</a> vor.</p>
 </section>
 <section class="article-section" aria-labelledby="2-naehrwerttabelle-die-wichtigsten-starb">
 <h2 id="2-naehrwerttabelle-die-wichtigsten-starb">2. Nährwerttabelle: die wichtigsten Starbucks-Getränke</h2>

diff --git a/blog/starbucks-geoeffnet.html b/blog/starbucks-geoeffnet.html
@@ -299,13 +299,13 @@
       <p>Die Sonntagsöffnung ist die am häufigsten gestellte Frage unter Kaffeetrinkern. Die Antwort lautet: <strong>Es kommt auf die Lage an.</strong></p>
       <ul>
         <li><strong>Innenstädte &amp; Fußgängerzonen:</strong> Gemäß dem Ladenschlussgesetz der Bundesländer gilt sonntags grundsätzlich Ruhetag. Rund 60 % der reinen Innenstadt-Filialen bleiben sonntags geschlossen.</li>
-        <li><strong>Shopping Malls:</strong> Ausnahmslos geschlossen, da an die Öffnungszeiten des Einkaufszentrums gebunden.</li>
+        <li><strong>Shopping Malls:</strong> Ausnahmslos geschlossen, da an die Öffnungszeiten des Einkaufszentrums gebunden. Das gilt auch für die zehn <a href="/blog/starbucks-outlet">Starbucks in Outlet-Centern</a>.</li>
         <li><strong>Hauptbahnhöfe und Flughäfen:</strong> Dank der Reisebedarfsregelung haben diese Filialen <strong>jeden Sonntag geöffnet</strong>, oft von früh morgens bis spät in die Nacht.</li>
       </ul>
       <p>Finden Sie alle Filialen in Ihrer Nähe über unsere Übersicht <a href="/starbucks-in-meiner-naehe">Starbucks Filialen in der Nähe</a>.</p>
 
       </section><section class="article-section" aria-labelledby="feiertage"><h2 id="feiertage">3. Sonderregelungen an Feiertagen: Weihnachten, Silvester, Neujahr &amp; Ostern</h2>
-      <p>An Feiertagen gelten abweichende Sonderöffnungszeiten:</p>
+      <p>An Feiertagen gelten abweichende Sonderöffnungszeiten. Was am 31. Oktober gilt, der in neun Bundesländern als Reformationstag Feiertag ist, erklärt der Ratgeber <a href="/blog/starbucks-halloween#hat-starbucks-an-halloween-geoeffnet">Starbucks Halloween</a>. Für die übrigen Feiertage gilt:</p>
       <ul>
         <li><strong>Heiligabend (24. Dezember):</strong> Fast alle Filialen öffnen vormittags, schließen aber frühzeitig zwischen <strong>13:00 und 14:00 Uhr</strong>.</li>
         <li><strong>1. &amp; 2. Weihnachtsfeiertag:</strong> Innenstädte bundesweit geschlossen; Bahnhofs- und <a href="/blog/starbucks-flughafen">Flughafenfilialen</a> haben geöffnet.</li>

diff --git a/blog/starbucks-becher.html b/blog/starbucks-becher.html
@@ -637,7 +637,7 @@
 
         <section class="article-section" aria-labelledby="kaufen">
           <h2 id="kaufen">8. Wo kaufen, auch online, und woran erkennt man ein Original?</h2>
-          <p>Einen offiziellen Starbucks-Online-Shop, in dem man Becher bestellen kann, gibt es in Deutschland nach unserer Prüfung nicht (Stand 23. September 2026). Auf starbucks.de zeigt die Rubrik Menü › Merchandise das aktuelle Becher-Sortiment mit Bildern, aber ohne Preise und ohne Warenkorb. Neue Originalbecher bekommen Sie deshalb am zuverlässigsten direkt in der Filiale. Online führen vor allem Otto, eBay und spezialisierte Sammlershops Starbucks Becher, Kleinanzeigen eignet sich für gebrauchte Exemplare.</p>
+          <p>Einen offiziellen Starbucks-Online-Shop, in dem man Becher bestellen kann, gibt es in Deutschland nach unserer Prüfung nicht (Stand 23. September 2026). Auf starbucks.de zeigt die Rubrik Menü › Merchandise das aktuelle Becher-Sortiment mit Bildern, aber ohne Preise und ohne Warenkorb. Neue Originalbecher bekommen Sie deshalb am zuverlässigsten direkt in der Filiale. Einen Fabrikverkauf gibt es nicht, und für die <a href="/blog/starbucks-outlet">Starbucks in Outlet-Centern</a> haben wir keine Rabatte gefunden. Online führen vor allem Otto, eBay und spezialisierte Sammlershops Starbucks Becher, Kleinanzeigen eignet sich für gebrauchte Exemplare.</p>
           <h3>Wo kann man Starbucks Becher online kaufen?</h3>
           <p>Online kaufen Sie Starbucks Becher bei Händlern und Marktplätzen, nicht bei Starbucks selbst. Welcher Kanal passt, hängt davon ab, ob Sie einen aktuellen Becher neu wollen, eine ältere Edition suchen oder sparen möchten.</p>
           <div class="table-wrap" tabindex="0" role="region" aria-labelledby="kaufen">
